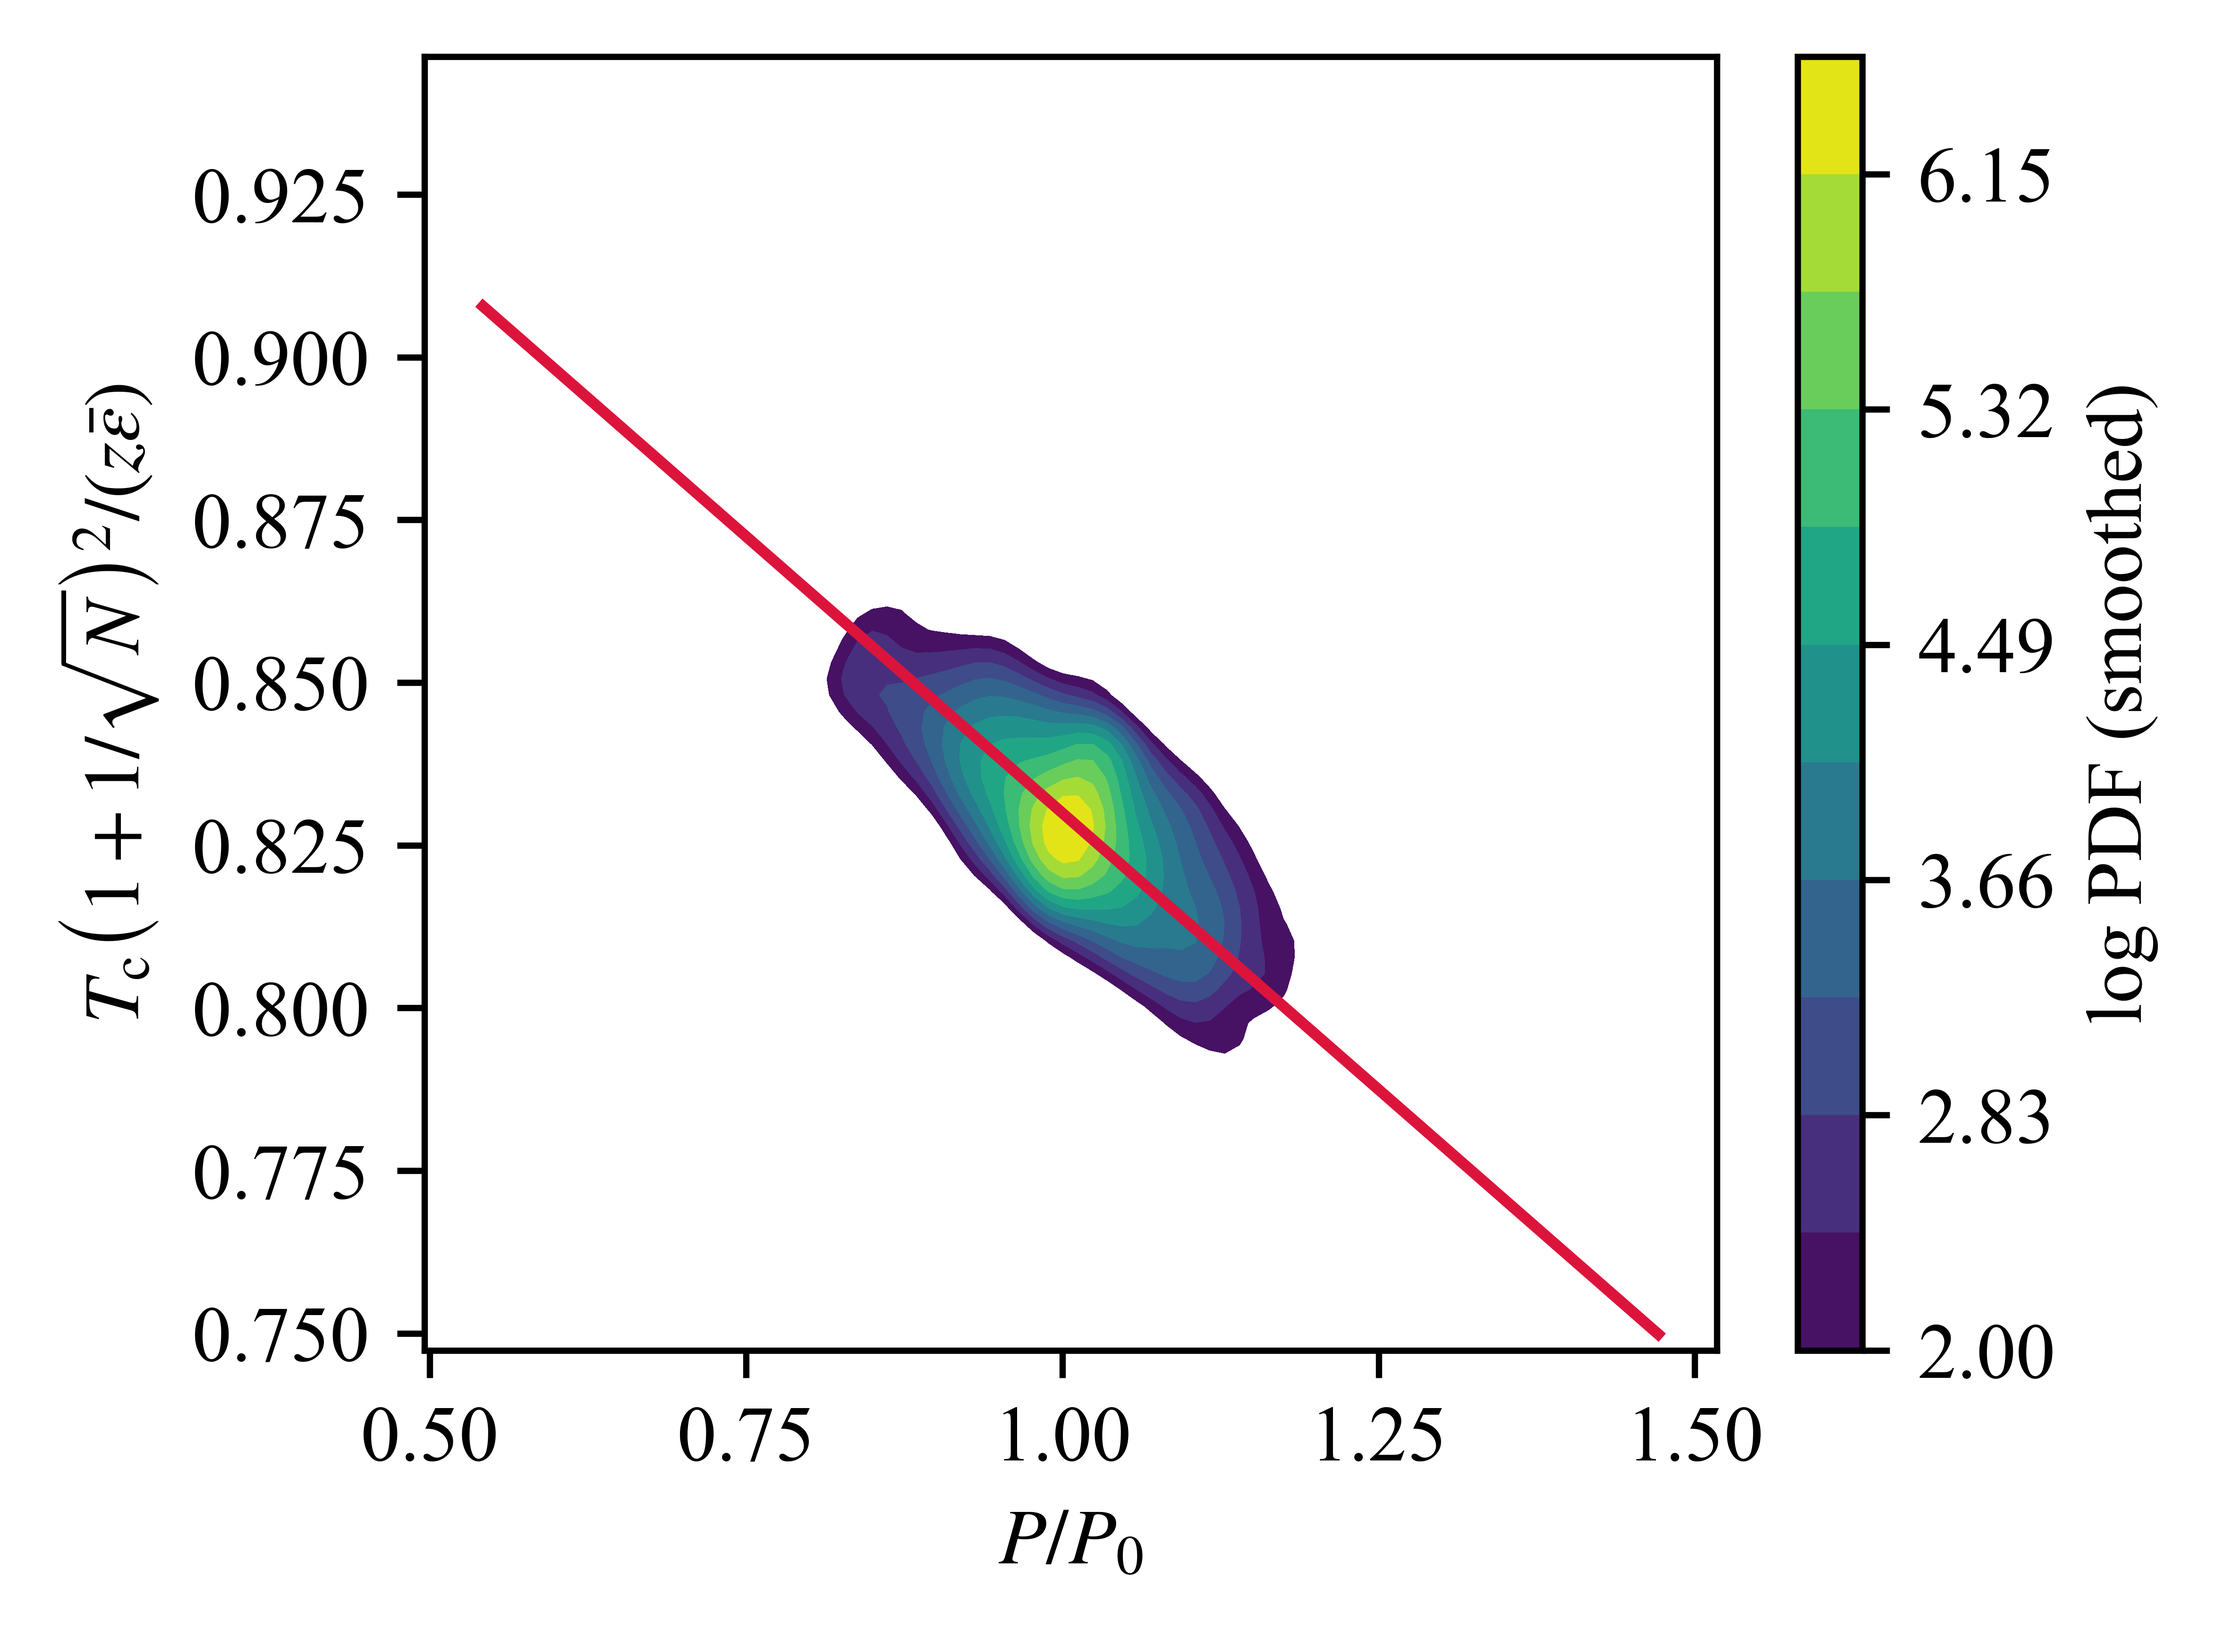
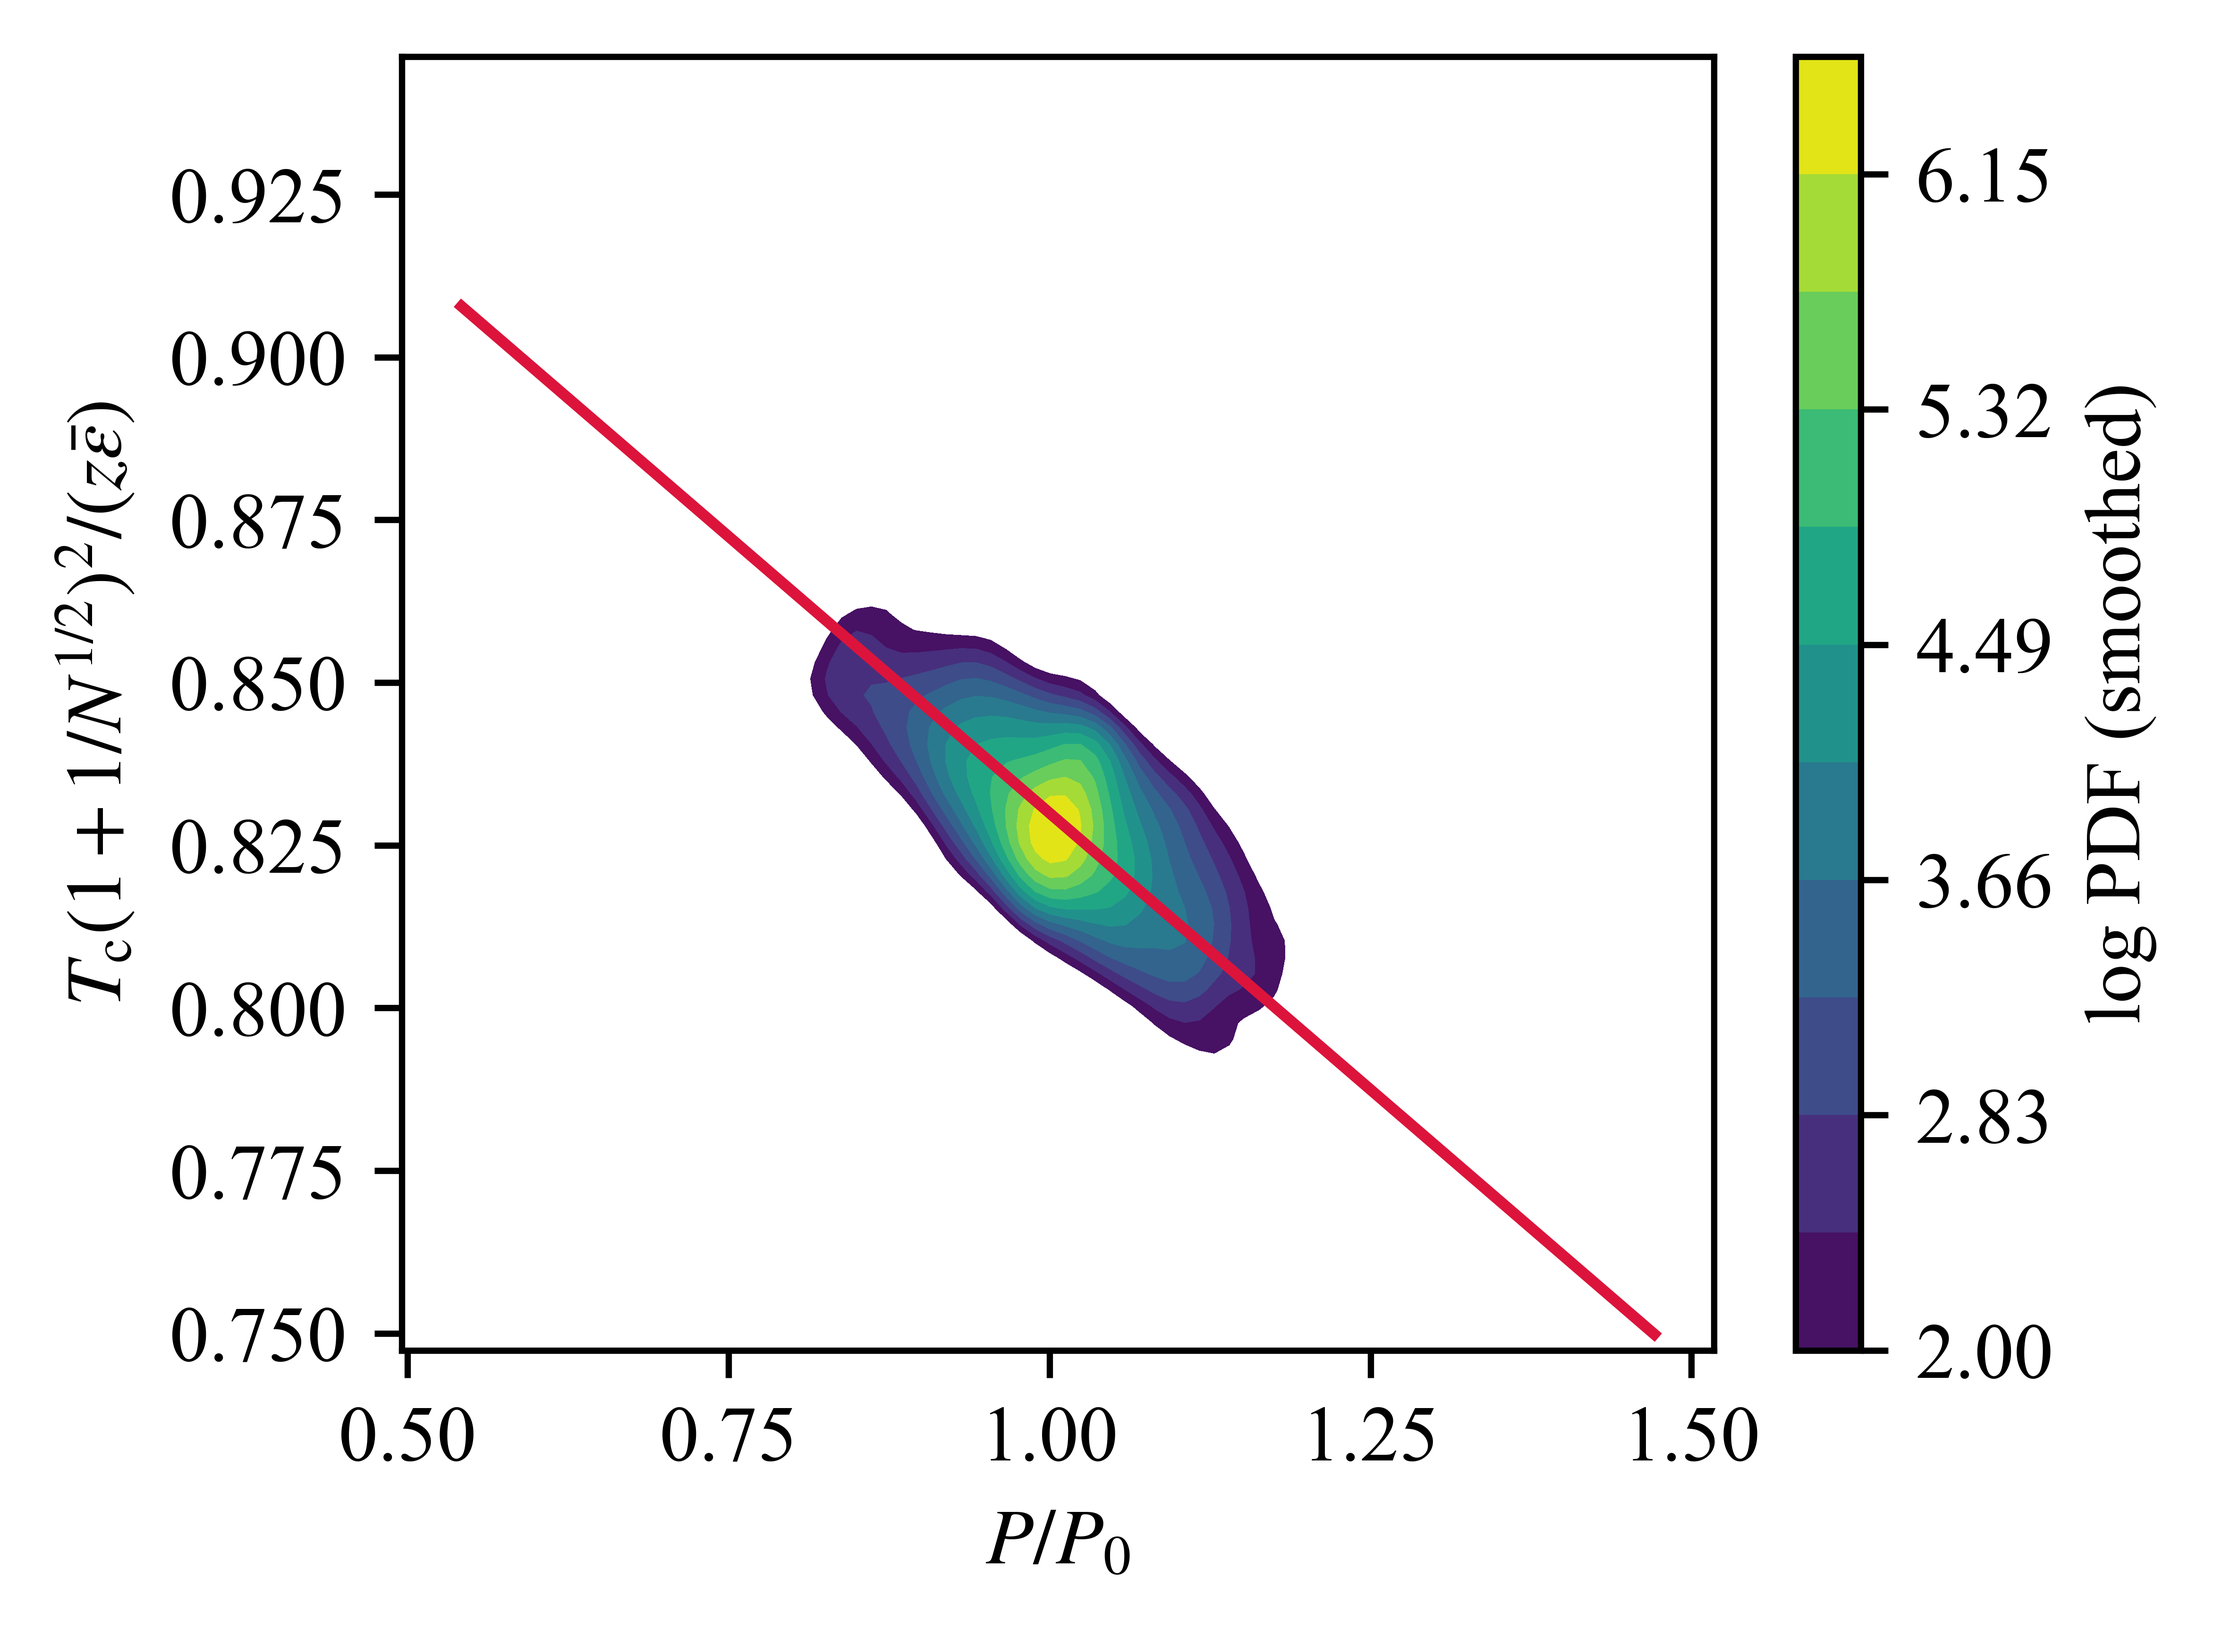
changed sqrt to ^1/2 to be less bulky

diff --git a/Fig3b.py b/Fig3b.py
@@ -217,7 +217,7 @@ def plot_Tc_vs_P_scatter(df: pd.DataFrame) -> Tuple[float, float]:
         print(rf"  R^{2.0}     = {R2:.6f}")
 
     ax.set_xlabel(r"$P/P_0$")
-    ax.set_ylabel(r"$T_\mathrm{c}\left(1 + 1/\sqrt{N}\right)^2/(z\bar{\epsilon})$")
+    ax.set_ylabel(r"$T_\mathrm{c}\left(1 + 1/N^{1/2}\right)^2/(z\bar{\epsilon})$")
     ax.grid(False)
 
     if len(unique_N) <= 6:
@@ -269,7 +269,7 @@ def plot_Tc_vs_P_smoothed_density_contourf(
     ax.plot(xs, fit_slope * xs + fit_intercept, color="crimson", lw=1.4)
 
     ax.set_xlabel(r"$P/P_0$")
-    ax.set_ylabel(r"$T_\mathrm{c}\left(1 + 1/\sqrt{N}\right)^2/(z\bar{\epsilon})$")
+    ax.set_ylabel(r"$T_\mathrm{c}\left(1 + 1/N^{1/2}\right)^2/(z\bar{\epsilon})$")
     ax.grid(False)
 
     fig.tight_layout()
